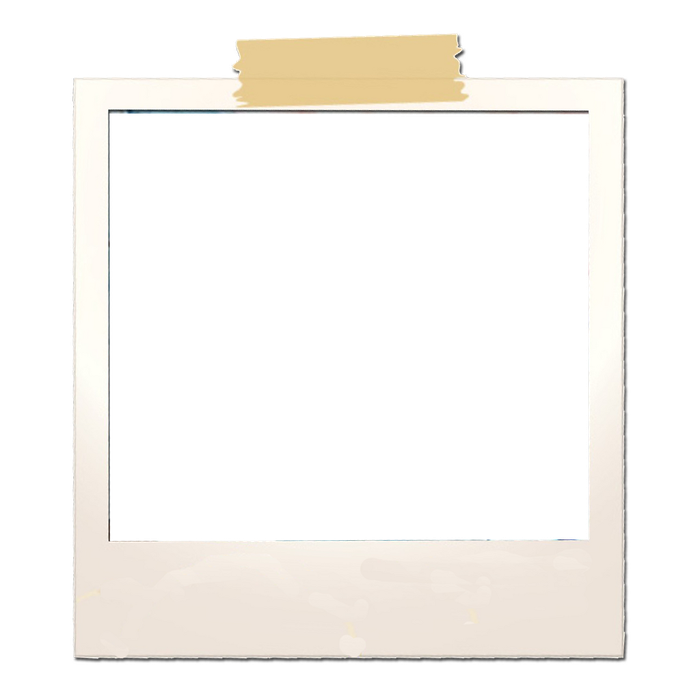
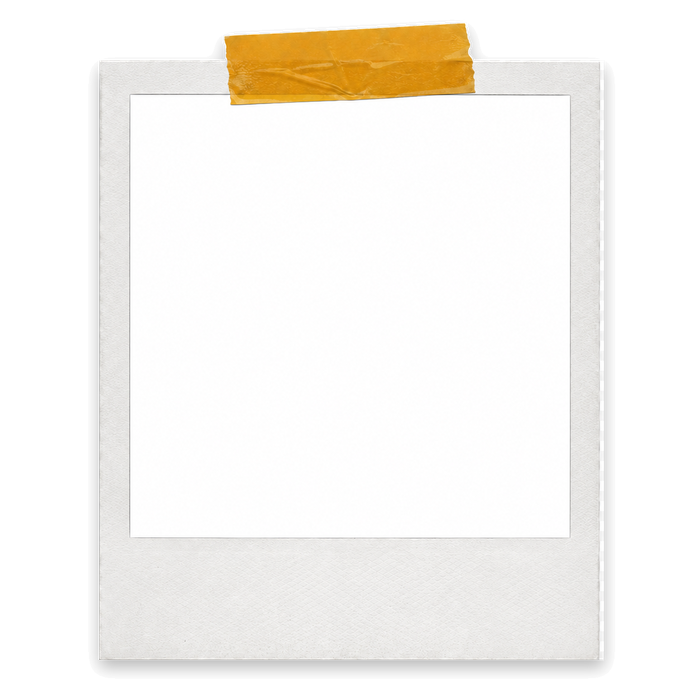
Add files via upload

Changed region(s): [[0.09, 0.03, 0.9, 0.96]]

diff --git a/index.html b/index.html
@@ -133,11 +133,11 @@
   .pol:nth-child(4n+2){transform:rotate(1.9deg);margin-top:10px;}
   .pol:nth-child(4n+3){transform:rotate(2.3deg);}
   .pol:nth-child(4n+4){transform:rotate(-1.7deg);margin-top:10px;}
-  .pol .moldura{display:block;width:100%;position:relative;z-index:2;}
-  .pol .foto{position:absolute;left:15.2%;top:15.8%;width:69.5%;height:62%;object-fit:cover;z-index:1;}
-  .pol .frase{position:absolute;left:14%;top:79%;width:72%;height:11%;display:flex;align-items:center;justify-content:center;text-align:center;font-style:italic;font-size:12px;line-height:1.25;color:#3a362e;overflow:hidden;z-index:3;}
-  .pol .autor{position:absolute;left:14%;top:90.5%;width:72%;text-align:center;font-size:9.5px;color:#9a958c;z-index:3;}
-  .pol .mx{position:absolute;right:10%;top:6%;width:24px;height:24px;border-radius:50%;background:rgba(20,20,20,.75);color:#ff9a9a;border:none;font-size:13px;padding:0;z-index:4;}
+  .pol .moldura{display:block;width:100%;position:relative;z-index:1;}
+  .pol .foto{position:absolute;left:18.9%;top:14.9%;width:62.2%;height:61.6%;object-fit:cover;z-index:2;}
+  .pol .frase{position:absolute;left:16%;top:78.5%;width:68%;height:11.5%;display:flex;align-items:center;justify-content:center;text-align:center;font-style:italic;font-size:11.5px;line-height:1.2;color:#3a362e;overflow:hidden;z-index:3;}
+  .pol .autor{position:absolute;left:16%;top:91%;width:68%;text-align:center;font-size:9px;color:#9a958c;white-space:nowrap;overflow:hidden;text-overflow:ellipsis;z-index:3;}
+  .pol .mx{position:absolute;right:13%;top:5%;width:24px;height:24px;border-radius:50%;background:rgba(20,20,20,.75);color:#ff9a9a;border:none;font-size:13px;padding:0;z-index:4;}
   .mm-row{display:flex;gap:9px;margin-top:10px;}
   .mm-row .filebtn{margin:0;flex:1;}
   #help-overlay{display:none;position:fixed;inset:0;z-index:96;background:rgba(0,0,0,.85);overflow-y:auto;padding:24px 14px;}
@@ -271,6 +271,16 @@
     </div>
 
     <div class="card">
+      <h2>📊 Pra onde foi o dinheiro</h2>
+      <div id="resumo-gastos"></div>
+    </div>
+
+    <div class="card">
+      <h2><img src="icon-acerto.png" class="ic hd" alt="" onerror="this.replaceWith(document.createTextNode('💸'))"> Acerto de contas</h2>
+      <div id="resultado"></div>
+    </div>
+
+    <div class="card">
       <h2>📸 Mural de momentos</h2>
       <p class="hint" style="margin:0;">Pendure as fotos do rolê — viram a lembrança do evento.</p>
       <div class="mm-row">
@@ -280,16 +290,6 @@
       <input id="mm-frase" placeholder="Escreva uma frase (opcional)" maxlength="80" autocomplete="off" style="margin-top:9px;">
       <button class="full mini" id="btn-momento" onclick="postarMomento()" style="margin-top:9px;">+ Pendurar no mural</button>
       <div id="mural-lista" class="mural"></div>
-    </div>
-
-    <div class="card">
-      <h2>📊 Pra onde foi o dinheiro</h2>
-      <div id="resumo-gastos"></div>
-    </div>
-
-    <div class="card">
-      <h2><img src="icon-acerto.png" class="ic hd" alt="" onerror="this.replaceWith(document.createTextNode('💸'))"> Acerto de contas</h2>
-      <div id="resultado"></div>
     </div>
 
     <div class="card" id="admin-card" style="display:none;">